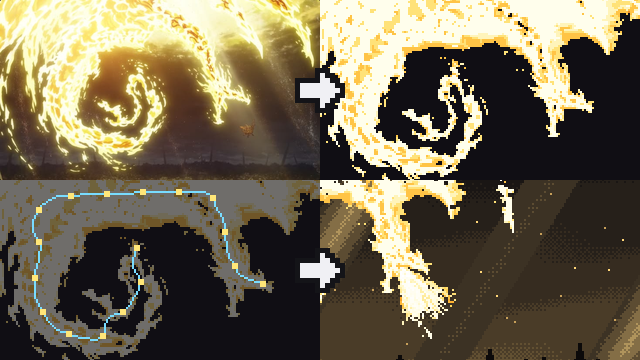
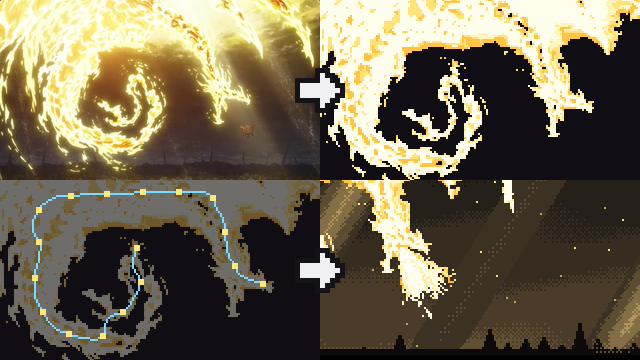
Add effect gifs, reorder README, normal case

Changed region(s): [[0.5, 0.4889, 0.7812, 0.9167], [0.5, 0.7333, 1.0, 1.0], [0.75, 0.4889, 0.8438, 0.7028]]

diff --git a/README.md b/README.md
@@ -6,11 +6,22 @@ Claude Code skill for making pixel art with AI. It covers how to describe what y
 
 ## AI is not a painter
 
-**AI CANNOT DRAW PIXEL ART FROM SCRATCH LIKE A PAINTER. IT ONLY WRITES CODE. SO DESCRIBE WHAT YOU WANT WITH SIMPLE SHAPES: SQUARE, CIRCLE, TRIANGLE.**
+**AI cannot draw pixel art from scratch like a painter. It only writes code, so describe what you want with simple shapes: square, circle, triangle.**
 
 ![Kinryu, drawn from scratch vs from a reference](images/kinryu_old_new.png)
 
 Left: the AI drew the dragon from scratch. Right: the AI turned a reference image into pixels and moved it.
+
+## Example: Kinryu
+
+![Kinryu, step by step](images/kinryu_steps.png)
+
+1. **Reference.** One still of a golden dragon.
+2. **Pixelate.** Remove the background and turn it into pixels.
+3. **Rig.** Find the spine from head to tail and move the body along it.
+4. **Put it in the scene.** The dragon comes down from the sky, roars and breathes fire.
+
+![Kinryu animation](images/kinryu.gif)
 
 ## Steps
 
@@ -27,16 +38,11 @@ Left: the AI drew the dragon from scratch. Right: the AI turned a reference imag
 
 ![God battle](images/god_battle.gif)
 
-## Example: Kinryu
+## Example: effects
 
-![Kinryu, step by step](images/kinryu_steps.png)
+![Green flame](images/green_flame.gif)
 
-1. **Reference.** One still of a golden dragon.
-2. **Pixelate.** Remove the background and turn it into pixels.
-3. **Rig.** Find the spine from head to tail and move the body along it.
-4. **Put it in the scene.** The dragon comes down from the sky, roars and breathes fire.
-
-![Kinryu animation](images/kinryu.gif)
+![Golden dragon](images/kouryu.gif)
 
 ## Example: mini characters
 
@@ -46,7 +52,7 @@ Left: the AI drew the dragon from scratch. Right: the AI turned a reference imag
 
 ## Rule: never "do this" and walk away
 
-**NEVER TELL THE AI "DO THIS" AND LEAVE IT. CHECK IT THE WHOLE TIME IT WORKS AND MAKE SURE WHAT YOU GET IS WHAT YOU WANTED.**
+**Never tell the AI "do this" and leave it. Check it the whole time it works and make sure what you get is what you wanted.**
 
 ![Heirs of the Valley, first version vs now](images/hotv_before_after.png)
 

diff --git a/SKILL.md b/SKILL.md
@@ -8,7 +8,7 @@ license: MIT
 
 ## AI is not a painter
 
-**AI CANNOT DRAW PIXEL ART FROM SCRATCH LIKE A PAINTER. IT ONLY WRITES CODE. SO DESCRIBE WHAT YOU WANT WITH SIMPLE SHAPES: SQUARE, CIRCLE, TRIANGLE.**
+**AI cannot draw pixel art from scratch like a painter. It only writes code, so describe what you want with simple shapes: square, circle, triangle.**
 
 Get the shapes right first, then ask for the details.
 
@@ -23,7 +23,7 @@ Get the shapes right first, then ask for the details.
 
 ## Rule: never "do this" and walk away
 
-**NEVER TELL THE AI "DO THIS" AND LEAVE IT. CHECK IT THE WHOLE TIME IT WORKS AND MAKE SURE WHAT YOU GET IS WHAT YOU WANTED.**
+**Never tell the AI "do this" and leave it. Check it the whole time it works and make sure what you get is what you wanted.**
 
 After every step, look at the result:
 
